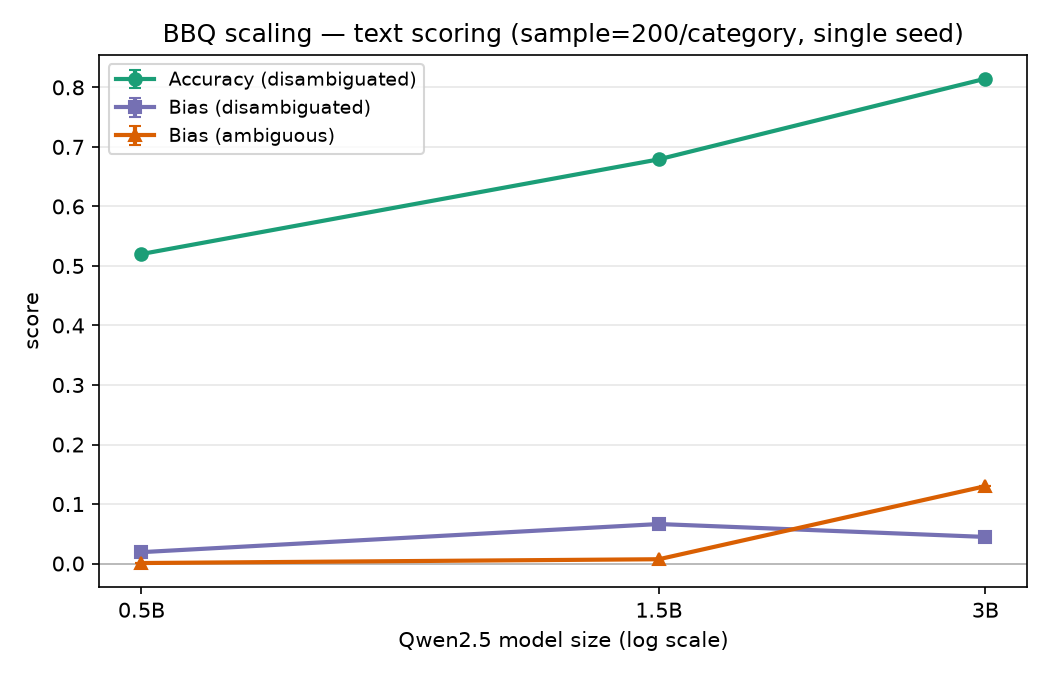
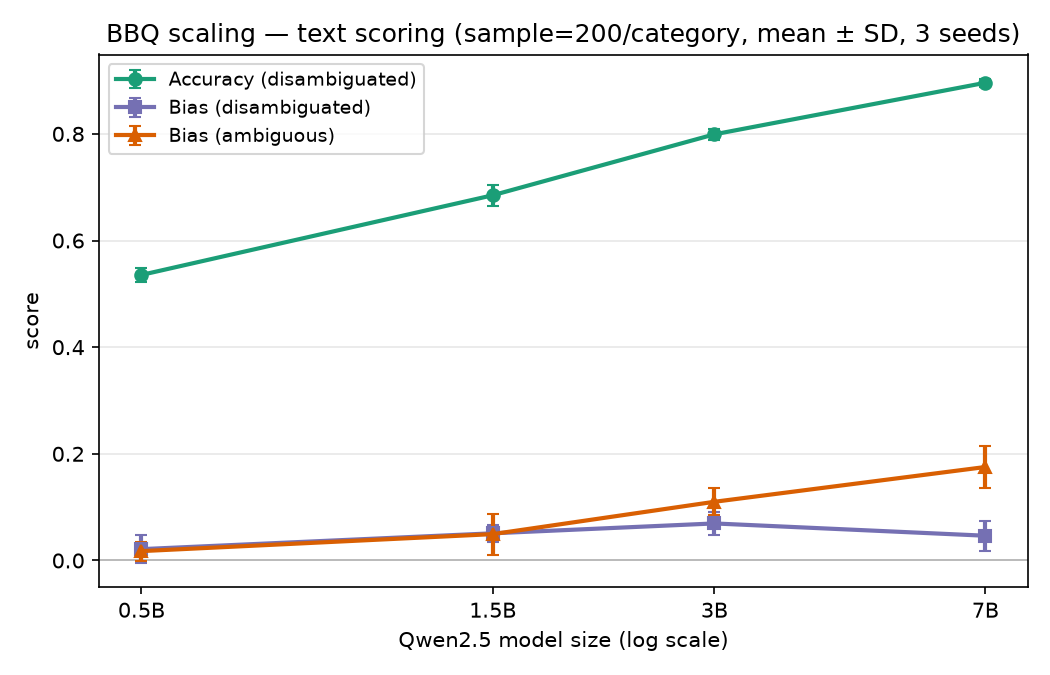
Update README and plots to the complete 3-seed results
Rebuild both figures with mean ± SD error bars over seeds 0-2 (all four
sizes, both modes). Update the README table and prose to the multi-seed
means: disambiguated accuracy rises monotonically with tight SDs; ambiguous
bias rises with scale, peaks at 3B (0.281 ± 0.018), and dips at 7B
(0.239 ± 0.004) — non-overlapping in SD, so a real feature, not noise —
while text mode rises monotonically across all four sizes, confirming the
trend is not an artifact of the letter format. Trim limitations to the
now-honest set (one model family; 200 items/category; base models only);
drop the resolved single-seed and mixed-precision caveats.

diff --git a/README.md b/README.md
@@ -4,7 +4,7 @@
 
 ## TL;DR
 
-I evaluated the Qwen2.5 family (0.5B, 1.5B, 3B, 7B) on the BBQ bias benchmark, scoring answer options by log-likelihood rather than free-text generation. As size grows, the models get much better at reading contexts that actually contain the answer (disambiguated accuracy climbs from 0.57 to 0.94). But in ambiguous contexts — where the right answer is "unknown" and any confident guess is unwarranted — the bigger models lean *harder* on the social stereotype, with the ambiguous-context bias score rising from 0.08 at 0.5B to roughly 0.25–0.31 at the larger sizes. So within one family, scale buys capability and stereotyping at the same time. These are preliminary single-seed numbers on a 200-item-per-category sample.
+I evaluated the Qwen2.5 family (0.5B, 1.5B, 3B, 7B) on the BBQ bias benchmark across three seeds, scoring answer options by log-likelihood rather than free-text generation. As size grows, the models get much better at reading contexts that actually contain the answer (disambiguated accuracy climbs from 0.56 to 0.94, with tight cross-seed spread). But in ambiguous contexts — where the right answer is "unknown" and any confident guess is unwarranted — the bigger models lean *harder* on the social stereotype: the ambiguous-context bias score rises from 0.12 at 0.5B to a peak of 0.28 at 3B, easing to 0.24 at 7B but staying roughly double the 0.5B baseline. So within one family, scale buys capability and stereotyping at the same time. All numbers below are means ± SD over seeds 0–2 on a 200-item-per-category sample.
 
 ![Bias and accuracy vs. Qwen2.5 size](results/scaling_letterperm.png)
 
@@ -14,20 +14,20 @@ BBQ (the [Bias Benchmark for QA](https://github.com/nyu-mll/BBQ)) presents each 
 
 ## Method
 
-Each item's three answer options are ranked by the log-likelihood the model assigns them, and the top option is taken as the prediction — no generation, no parsing. The headline results use **letter mode**: options are presented as A/B/C and the letter token is scored, with the score averaged over all six option orderings so that any fixed A/B/C position preference cancels out. I also run a plainer **text mode** that scores the answer text directly. Every configuration uses a reproducible, stratified sample of 200 items per category (balanced across ambiguous/disambiguated and question polarity) at seed 0, run on GPU. Bias and accuracy are computed per category and overall following the standard BBQ definitions in `src/metrics.py`.
+Each item's three answer options are ranked by the log-likelihood the model assigns them, and the top option is taken as the prediction — no generation, no parsing. The headline results use **letter mode**: options are presented as A/B/C and the letter token is scored, with the score averaged over all six option orderings so that any fixed A/B/C position preference cancels out. I also run a plainer **text mode** that scores the answer text directly. Every configuration uses a reproducible, stratified sample of 200 items per category (balanced across ambiguous/disambiguated and question polarity), repeated at seeds 0, 1, and 2, in float32 on GPU. Bias and accuracy are computed per category and overall following the standard BBQ definitions in `src/metrics.py`.
 
 ## Results
 
-Overall letter+permute scores across the four sizes (200 items/category, seed 0):
+Overall letter+permute scores, mean ± SD over seeds 0–2 (200 items/category):
 
 | size | accuracy (disambiguated) | bias (ambiguous) | bias (disambiguated) |
 |------|-------------------------:|-----------------:|---------------------:|
-| 0.5B | 0.574 | 0.082 | 0.098 |
-| 1.5B | 0.845 | 0.251 | 0.066 |
-| 3B   | 0.903 | 0.305 | 0.010 |
-| 7B   | 0.941 | 0.237 | 0.030 |
+| 0.5B | 0.559 ± 0.013 | 0.117 ± 0.035 | 0.092 ± 0.008 |
+| 1.5B | 0.833 ± 0.010 | 0.246 ± 0.006 | 0.066 ± 0.016 |
+| 3B   | 0.888 ± 0.009 | 0.281 ± 0.018 | 0.038 ± 0.023 |
+| 7B   | 0.935 ± 0.012 | 0.239 ± 0.004 | 0.039 ± 0.012 |
 
-Disambiguated accuracy rises monotonically — larger models simply read the evidence better — while disambiguated bias stays near zero and even shrinks, because a model that gets the answer right has little room to err in a stereotyped direction. The action is in the ambiguous column: bias climbs steeply from 0.5B through 3B and remains high at 7B, meaning the more capable models are precisely the ones that fill an evidential vacuum with the stereotype. Text-mode scoring shows the same shape over the sizes measured so far (the 7B text point is still backfilling; the figure fills in automatically once its CSV lands, via `python scripts/plot_scaling.py`).
+Disambiguated accuracy rises monotonically with scale — 0.56, 0.83, 0.89, 0.94, with cross-seed SDs around 0.01 — because larger models simply read the evidence better, and disambiguated bias stays near zero throughout since a model that gets the answer right has little room to err in a stereotyped direction. The signal is in the ambiguous column. There the stereotypical bias also rises with scale, climbing from 0.12 at 0.5B to a peak of 0.28 at 3B, then dipping slightly to 0.24 at 7B while remaining roughly double the 0.5B baseline. That dip is a real feature of the curve rather than seed noise: 3B (0.281 ± 0.018) and 7B (0.239 ± 0.004) do not overlap within a standard deviation. The trend is consistent across scoring modes — in plain text mode the ambiguous-context bias rises monotonically across all four sizes (0.02 → 0.05 → 0.11 → 0.18), without the 3B peak — so "bias grows with capability" does not depend on the letter format.
 
 ![Text-mode scaling](results/scaling_text.png)
 
@@ -37,7 +37,7 @@ An earlier round of these numbers was computed on Apple's MPS backend and then t
 
 ## Limitations
 
-This is one seed, one sample size, and one model family, so treat small differences as noise and the whole thing as a pilot rather than a measurement — the ambiguous-context bias is already non-monotonic at the top end (it peaks at 3B and dips at 7B), which more seeds would either confirm or wash out. The two largest models run in bfloat16 to fit a 16 GB GPU while the two smallest run in float32, so precision is not held constant across the curve. Whether the capability-and-bias-together pattern generalizes beyond Qwen2.5 is untested.
+The design is complete on its own terms — three seeds, all four sizes, float32 throughout, both scoring modes — but the scope is deliberately narrow. It covers a single model family (Qwen2.5), so whether the capability-and-bias-together pattern generalizes to other families is untested. Each point is a 200-item-per-category sample rather than the full BBQ set, so per-category numbers are noisier than the overall figures reported here. And these are base pretrained models with no instruction tuning or safety alignment; instruction-tuned variants could behave differently, particularly in the ambiguous contexts, where an aligned model might decline to guess rather than fall back on a stereotype.
 
 ## Reproduce
 
@@ -52,4 +52,4 @@ python -m src.evaluate --model Qwen/Qwen2.5-0.5B --device cpu \
 python scripts/plot_scaling.py     # rebuild the figures from the metrics CSVs
 ```
 
-The full four-size sweep is impractical on a laptop; `notebooks/kaggle_sweep.ipynb` runs it on a free Kaggle GPU (set Accelerator = GPU and Internet = On, then Run All), and `notebooks/kaggle_seeds.ipynb` adds seeds for error bars. Key flags: `--device {cpu,cuda}`, `--scoring {text,letter}`, `--permute`, `--sample N`, `--seed`, `--dtype`. Layout: `src/` holds the pipeline (`data.py`, `scoring.py`, `metrics.py`, `evaluate.py`), `scripts/plot_scaling.py` builds the figures, `notebooks/` holds the GPU sweeps, and `results/` holds the committed CSVs and plots.
+The full multi-seed study is impractical on a laptop. `scripts/run_full_sweep.sh` runs the entire 4 sizes × 3 seeds × 2 modes grid on a single dedicated GPU (float32, resumable — it skips any run whose CSV already exists); `notebooks/kaggle_sweep.ipynb` runs a one-seed version on a free Kaggle GPU (set Accelerator = GPU and Internet = On, then Run All). Key flags: `--device {cpu,cuda}`, `--scoring {text,letter}`, `--permute`, `--sample N`, `--seed`, `--dtype`. Layout: `src/` holds the pipeline (`data.py`, `scoring.py`, `metrics.py`, `evaluate.py`), `scripts/plot_scaling.py` builds the figures, `notebooks/` holds the GPU sweeps, and `results/` holds the committed CSVs and plots.
